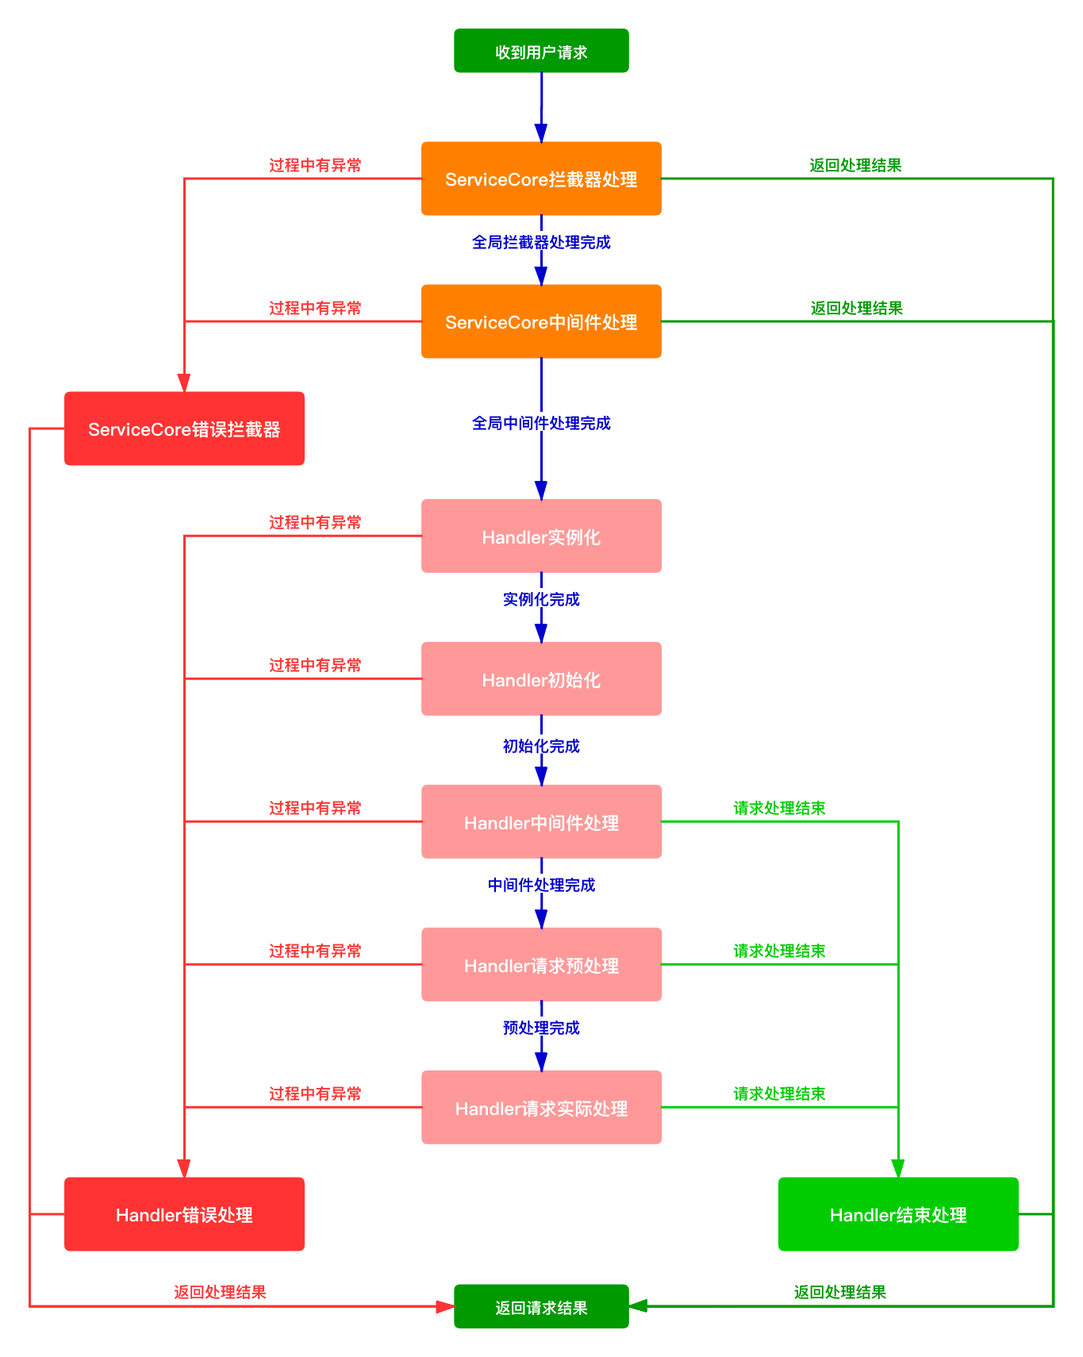
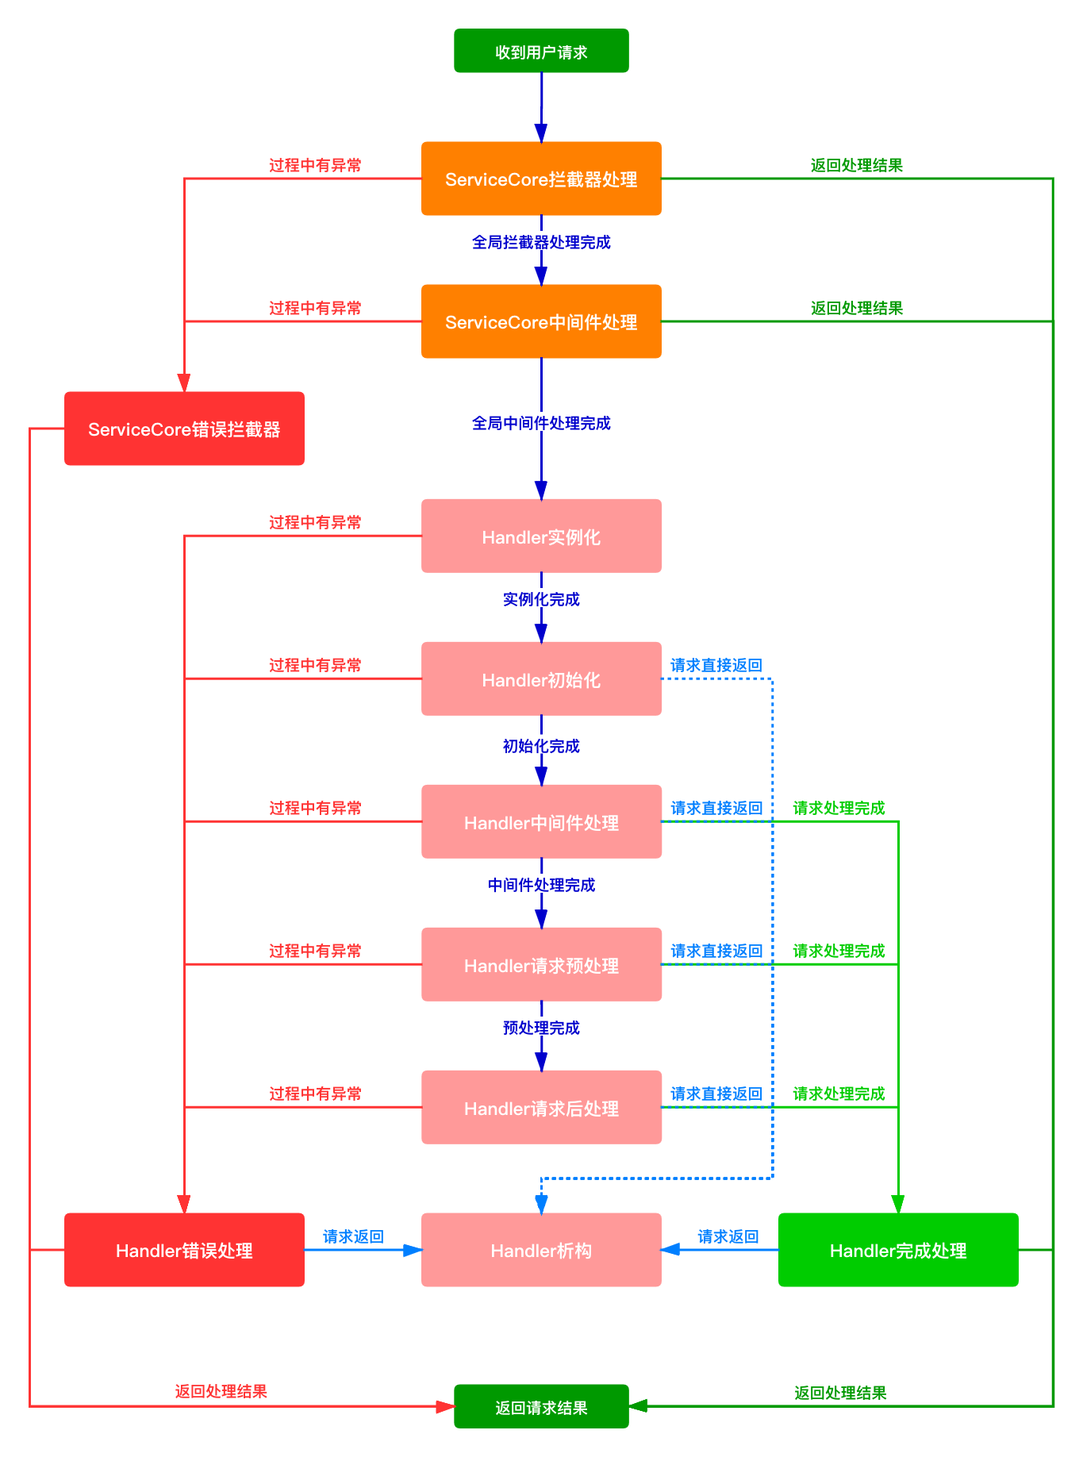
Handler析构相关文档

diff --git a/docs/guide/request-handler.md b/docs/guide/request-handler.md
@@ -2,25 +2,25 @@
 
 ## 介绍
 
-**Handler必须绑定至ServiceCore使用。在ServiceCore拦截器、中间件阶段完成后进入Handler处理**。ServiceCore每次接收到有效的用户请求时，将会使用与请求匹配的Handler创建Handler实例，并将用户请求导入Handler实例处理。即：ServiceCore是Handler执行的容器，负责全局级别处理；Handler根据用户请求路径执行个性化处理。
+**Handler必须绑定至ServiceCore使用**。在全局拦截器、全局中间件阶段处理结束后，ServiceCore将使用与请求匹配的Handler创建Handler实例，并将用户请求导入Handler实例继续处理。即：ServiceCore是Handler执行的容器，负责全局逻辑控制和请求前置处理；在Handler根据实际请求情况针对性处理。
 
-实现自定义Handler时需要继承```Core.Handler```并重写相关方法，在本章中将介绍常用场景下如何自定义Handler。
+自定义Handler通过继承```Core.Handler```并重写相关方法方式进行，在本章中将介绍常用场景下如何自定义Handler。
 
 ## 设置请求路径
 
-ServiceCore绑定Handler时，将获取待绑定列表中每个Handler设置的请求路径，对请求路径做出校正并缓存在ServiceCore。
+ServiceCore绑定Handler时，将获取待绑定列表中每个Handler设置的请求路径，对请求路径做出校正并缓存请求路径规则与Handler的映射关系。
 
-::: tip 请求路径校正规则
-若Handler设置的请求路径不以```'/'```开头，将自动附加```'/'```作为请求路径前缀。
+::: tip 路径校正规则
+Handler中设置的请求路径不以```'/'```开头时，ServiceCore将自动为请求路径附加```'/'```前缀。
 :::
 
 ::: warning 注意
-在ServiceCore全局拦截器默认行为下，收到用户请求时会**检查用户请求路径是否命中缓存中的某个Handler设置的请求路径**，若未命中直接返回404状态码，不再进入中间件阶段和Handler处理阶段。
+在全局拦截器默认行为下，收到用户请求时会**检查用户请求路径是否命中某个Handler的请求路径规则**，若未命中直接返回404状态码，不再进入全局中间件阶段和Handler处理阶段。
 :::
 
-通过重写Handler的```static getRoutePath()```方法设置请求路径，**实现Handler时必须设置请求路径。**
+通过重写Handler的```static getRoutePath()```设置请求路径，**实现Handler时必须设置请求路径。**
 
-样例中实现了一个请求路径为```'/Test.do'```的Handler：
+样例代码中实现了一个请求路径为```'/Test.do'```的Handler：
 
 ```javascript
 const Core = require('node-corejs');
@@ -44,17 +44,26 @@ serviceCore.start();
 
 ## Handler初始化
 
-**每次ServiceCore接收到有效请求时，将创建请求路径对应Handler的实例，此时将执行实例的```initHandler()```发起初始化指令。初始化过程中产生了未捕获的异常将被[统一错误处理](#统一错误处理)捕获。**
+**每次ServiceCore接收到有效请求时，将创建与请求路径对应Handler的实例，实例化后执行实例的```initHandler()```发起Handler初始化指令。初始化过程中产生了未捕获的异常将进入[统一错误处理](#统一错误处理)。**
 
 ::: tip 提示
-Handler初始化操作中一般进行创建请求所需的静态资源和动态资源，这些资源可以挂载至```this```中在整个Handler中共享。
+Handler初始化阶段通常会创建请求处理过程中需要的**静态资源**和**动态资源**，这些资源可以通过挂载至```this```的方式在整个Handler生命周期中共享。初始化阶段中创建的资源需要在[Handler析构](#handler析构)阶段释放，否则可能导致内存泄露。
+
 - 动态资源：与用户请求相关的资源，比如：链路追踪器、日志输出器等。
 - 静态资源：与用户请求无关的资源，比如：数据库操作实例、RPC通信实例等。
 :::
 
-ServiceCore执行Handler初始化通过```await initHandler()```方式，因此，进行异步操作时可以使用```Promise```。
+ServiceCore发起Handler初始化指令通过执行```await initHandler()```。因此，如果需要异步操作时阻塞流程可以使用```Promise```实现。
 
-样例中实现了同步/异步初始化操作：
+::: danger 注意
+初始化阶段通常不执行向用户返回处理结果的动作。若在此阶段需要向用户返回，通过操作用户返回实例```res```即可，向用户返回后将直接进入[Handler析构](#handler析构)阶段。
+:::
+
+样例代码中展示了同步/异步初始化操作：
+
+::: danger 注意
+重写```initHandler```时必须执行```super.initHandler()```，否则Handler将无法正常进入[Handler析构](#handler析构)阶段。
+:::
 
 ```javascript
 const Core = require('node-corejs');
@@ -87,10 +96,10 @@ class Handler extends Core.Handler {
     next('done');
   }
 
-  // 处理结束
-  onFinished(data, req, res) {
-    super.onFinished(data, req, res);
-    this.logger.log('处理结束');
+  // 处理完成
+  onFinish(data, req, res) {
+    super.onFinish(data, req, res);
+    this.logger.log('处理完成');
   }
 }
 
@@ -102,17 +111,27 @@ serviceCore.start();
 
 ## Handler中间件
 
-**Handler中间件支持所有Express生态中间件，支持[动态中间件](/guide/dynamic-middleware)**。本节仅描述设置Handler级别中间件的基础用法，[动态中间件](/guide/dynamic-middleware)将于高阶功能中描述。**中间件执行过程中产生了未捕获的异常将被[统一错误处理](#统一错误处理)捕获。**
+**Handler中间件支持所有Express生态中间件，支持[动态中间件](/guide/dynamic-middleware)**。本节仅描述Handler级别中间件的基础用法，[动态中间件](/guide/dynamic-middleware)将于高阶功能中描述。**中间件执行过程中产生了未捕获的异常将进入[统一错误处理](#统一错误处理)。**
 
 ::: tip 提示
 动态中间件包括：
+
 - 处理每个用户请求时，根据实际请求情况动态生成中间件列表。
-- 执行每个中间件时，根据上一个中间件结果或实际请求情况控制中间件执行行为，比如丢弃执行结果、跳过执行等。
+- 执行每个中间件时，根据实际请求情况或上一个中间件结果控制中间件执行行为，比如丢弃执行结果、跳过执行等。
 :::
 
-自定义Handler时，需要重写```getMiddlewares()```配置Handler中间件，支持同步/异步设置中间件。当Handler初始化完成后将调用```await getMiddlewares()```获取待执行的中间件列表进入Handler中间件阶段。
+::: danger 注意
+在Handler中间件阶段应尽量使用流程控制方法```next()```控制处理流程，而不是直接操作用户返回实例```res```。
 
-样例中实现了同步/异步构建中间件列表：
+- 执行```next(err)```：Handler流程控制将分发请求至[统一错误处理](#统一错误处理)。
+- 执行```next(data)```：Handler流程控制将分发请求至[统一完成处理](#统一完成处理)。
+- 执行```next('commit')```：**仅在中间件调用确认时支持使用**，Handler流程控制将执行当前中间件。
+- 执行```next()```、```next(null)```或```next(undefined)```：Handler流程控制将发起下一个位置中间件的调用确认。在调用确认阶段进行此操作表示跳过当前中间件执行，直接发起下一个中间件的调用确认；在完成确认阶段进行此操作则认为确认完成，发起下一个中间件的调用确认。
+:::
+
+自定义Handler时，通过重写```getMiddlewares()```配置待执行的Handler中间件列表。Handler流程控制通过执行```await getMiddlewares()```获取待执行的中间件列表，因此可以通过```Promise```异步设置中间件列表。
+
+样例代码中展示了同步/异步设置中间件列表：
 
 ```javascript
 const express = require('express');
@@ -145,20 +164,23 @@ serviceCore.start();
 
 ## 请求预处理
 
-在Handler中间件阶段结束后（即：中间件列表最后一个中间件执行完成且被完成确认后），核心处理流程将分发用户请求进入预处理阶段继续处理。一些通用业务层逻辑（比如：请求参数解析与校验）可以在此阶段进行，通过重写```preHandler()```自定义请求预处理逻辑。
+Handler中间件阶段结束后（即：中间件列表最后一个中间件执行完成且被确认后），流程控制将分发用户请求进入预处理阶段继续处理。一些通用业务层逻辑（比如：请求参数解析与校验）可以在此阶段进行，通过重写```preHandler()```自定义请求预处理行为。
 
-在预处理阶段即将结束时，使用流程控制方法```next()```指定后续处理流程：
+::: danger 注意
+在预处理阶段即将结束时，应使用流程控制方法```next()```控制处理流程，而不是直接操作用户返回实例```res```。
 
-- 执行```next()```：核心处理流程将会根据用户请求方式，分发至对应的请求方式处理器执行[请求后处理](#请求后处理)。比如：用户请求方式为POST，核心流程将调用```postHandler()```进行后处理。
-- 执行```next(err)```：核心流程将分发请求至[统一错误处理](#统一错误处理)。
-- 执行```next(data)```：核心流程将分发请求至[统一结束处理](#统一结束处理)。
-
-::: warning 注意
-- 请求预处理默认直接执行```next()```进入后处理阶段。
-- 执行```next(data)```时，data可能为```null```或```undefined```，而中间件阶段的流程控制方法入参为```null```或```undefined```表示执行下一个中间件。
+- 执行```next()```：Handler流程控制将会根据用户请求方式，分发用户请求至对应的```Method Handler```执行[请求后处理](#请求后处理)。比如：用户请求方式为POST，Handler将调用```postHandler()```进行后处理。
+- 执行```next(err)```：Handler流程控制将分发请求至[统一错误处理](#统一错误处理)。
+- 执行```next(data)```：Handler流程控制将分发请求至[统一完成处理](#统一完成处理)。
 :::
 
-样例实现了在Handler预处理阶段处理基础入参：
+::: warning 注意
+
+- 请求预处理默认行为：直接执行```next()```进入后处理阶段，即：在不重写```preHandler()```时，Handler中间件阶段结束后直接进入[请求后处理](#请求后处理)。
+- 预处理阶段与中间件阶段的流程控制方法```next()```行为不同：执行```next(data)```时，后处理阶段中```data```可能为```null```或```undefined```，此时直接进入[统一完成处理](#统一完成处理)；而中间件阶段的流程控制方法入参为```null```或```undefined```表示执行下一个中间件。
+:::
+
+样例代码展示了在预处理阶段处理基础入参：
 
 ```javascript
 const Core = require('node-codejs');
@@ -202,31 +224,62 @@ serviceCore.start();
 
 ## 请求后处理
 
-在Handler请求预处理阶段即将结束时，若通过流程控制方法```next()```决定进入后处理阶段，核心处理流程将根据用户请求方式执行对应的请求处理器。比如：用户请求方式为POST，核心流程将调用```postHandler()```执行后续请求处理。用户请求对应的实际业务处理一般发生在此阶段，通过重写对应的Method Handler自定义请求后处理逻辑。
+在Handler请求预处理阶段即将结束时，若通过流程控制方法```next()```决定进入后处理阶段，Handler流程控制将根据用户请求方式执行对应的```Method Handler```。比如：用户请求方式为POST，核心流程将调用```postHandler()```执行后续请求处理。用户请求对应的实际业务处理通常发生在此阶段，通过重写对应的```Method Handler```自定义请求后处理行为。
 
-在后处理阶段即将结束时，使用流程控制方法```next()```指定后续处理流程：
+::: danger 注意
+在后处理阶段即将结束时，应使用流程控制方法```next()```控制处理流程，而不是直接操作用户返回实例```res```。
 
 - 执行```next(err)```：核心流程将分发请求至[统一错误处理](#统一错误处理)。
-- 执行```next(data)```：核心流程将分发请求至[统一结束处理](#统一结束处理)。
-
-::: warning 注意
-- 请求后处理的默认行为是：尝试根据请求方式构建Method Handler的方法名，若Method Handler方法在Handler有定义则直接调用；否则调用```_defaultHandler()```，此方法默认直接向客户端返回404状态码。
-- 若后处理阶段即将结束时执行了```next()```，Handler将认为调用```next(undefined)```，将分发请求至[统一结束处理](#统一结束处理)。
+- 执行```next(data)```：核心流程将分发请求至[统一完成处理](#统一完成处理)。
 :::
 
-## 统一结束处理
-
-在Handler处理任意阶段调用了```next(data)```将进入统一结束处理。此阶段为请求处理的末端，用于统一向客户端返回业务请求处理结果。通过重写```onFinished()```自定义统一结束处理逻辑。
-
 ::: warning 注意
-- 在中间件阶段中，执行```next()```、```next(null)```或```next(undefined)```时，Handler将分发下一个中间件而不是进入统一结束处理。
-- 在预处理阶段中，执行```next()```时与中间件阶段表现相同，而执行```next(null)```或```next(undefied)```时表现与中间件阶段不同，此时Handler核心流程将进入统一结束处理。
-- 在后处理阶段中，执行```next()```、```next(null)```或```next(undefined)```时，Handler将进入统一结束处理。
+
+- 请求后处理默认行为：根据请求方式构造对应的```Method Handler```方法名，若```Method Handler```在Handler中被重写则发起调用；否则调用默认后处理方法```_defaultHandler()```。默认后处理方法将直接向用户返回404状态码。
+- 后处理阶段、预处理阶段和中间件阶段的流程控制方法```next()```行为不同：在后处理阶段执行```next()```时，Handler将自动转换为```next(undefined)```，将分发请求至[统一完成处理](#统一完成处理)。
 :::
 
-默认行为下，统一结束处理使用```res.status(200).send()```向用户返回流程控制方法```next(data)```带入的```data```。
+样例代码中实现了使用GET方式请求```/Test.do```时返回query参数的业务：
 
-样例将以默认统一结束处理演示使用方式：
+```javascript
+const Core = require('node-corejs');
+
+class Handler extends Core.Handler {
+  // 设置请求路径
+  static getRoutePath() {
+    return '/Test.do';
+  }
+
+  // 实现GET请求处理逻辑
+  getHandler(req, res, next) {
+    next(req.query);
+  }
+}
+
+// 构建并启动ServiceCore
+const serviceCore = new Core.ServiceCore();
+serviceCore.bind([Handler]);
+serviceCore.start();
+```
+
+## 统一完成处理
+
+在Handler处理过程的任意阶段调用```next(data)```将进入统一完成处理。此阶段为请求处理的末端，通常需要操作用户返回实例```res```返回请求处理结果。通过重写```onFinish()```自定义统一完成处理行为。
+
+::: danger 注意
+仅使用流程控制方法```next(data)```才能进入统一完成处理。通过操作用户返回实例```res```导致处理结束将直接进入[Handler析构](#handler析构)，不会进入此阶段。
+:::
+
+::: warning 注意
+
+- 在中间件阶段中，执行```next()```、```next(null)```或```next(undefined)```时，Handler流程控制将尝试发起中间件列表中的下一个中间件的调用确认而不是进入统一完成处理。
+- 在预处理阶段中，执行```next()```时与中间件阶段表现相同；而执行```next(null)```或```next(undefied)```时与中间件阶段不同，此时Handler流程控制将进入统一完成处理。
+- 在后处理阶段中，执行```next()```、```next(null)```或```next(undefined)```时，Handler流程控制将进入统一完成处理。
+:::
+
+默认行为下，统一完成处理使用```res.status(200).send()```向用户返回流程控制方法```next(data)```带入的```data```。
+
+样例代码将以默认统一完成处理演示如何自定义统一完成处理行为：
 
 ```javascript
 const Core = require('node-codejs');
@@ -237,8 +290,8 @@ class Handler extends Core.Handler {
     return '/Test.do';
   }
 
-  // 统一结束处理
-  onFinished(data, req, res) {
+  // 统一完成处理
+  onFinish(data, req, res) {
     res.status(200).send(data);
   }
 }
@@ -251,7 +304,7 @@ serviceCore.start();
 
 ## 统一错误处理
 
-在Handler处理过程中出现了未被捕获的异常或任意阶段调用了```next(err)```将进入统一错误处理，此阶段为请求处理的末端，用于统一收口请求处理过程中的错误处理，一般情况下需要向客户端返回数据。通过重写```onError()```自定义统一错误处理逻辑。
+在Handler处理过程中出现了未被捕获的异常或任意阶段调用了```next(err)```时将进入统一错误处理。此阶段为请求处理的末端，用于统一收口请求处理过程中产生的异常，通常需要直接操作用户返回实例```res```返回请求处理结果。通过重写```onError()```自定义异常处理行为。
 
 样例将以默认统一错误处理演示使用方式：
 
@@ -267,6 +320,55 @@ class Handler extends Core.Handler {
   // 统一错误处理
   onError(err, req, res) {
     res.status(500).end();
+  }
+}
+
+// 构建并启动ServiceCore
+const serviceCore = new Core.ServiceCore();
+serviceCore.bind([Handler]);
+serviceCore.start();
+```
+
+## Handler析构
+
+在Handler处理过程的任意阶段，用户返回实例```res```执行了返回行为时，则Handler处理结束，进入析构阶段。
+
+::: danger 警告
+Handler析构阶段执行时，用户返回实例```res```已向用户返回。因此，在此阶段中仅允许对用户请求实例```req```和用户返回实例```res```执行读操作；对```req```和```res```执行写操作或业务操作无实际意义。
+:::
+
+::: tip 提示
+通常Handler析构阶段与[Handler初始化](#handler初始化)阶段的行为相互对应，在析构阶段中释放初始化阶段创建的资源。
+:::
+
+样例代码中实现了记录用户请求```/Test.do```的处理时间：
+
+```javascript
+const Core = require('node-corejs');
+
+class Handler extends Core.Handler {
+  // 设置请求路径
+  static getRoutePath() {
+    return '/Test.do';
+  }
+
+  // Handler初始化
+  initHandler(serviceCore, req, res) {
+    super.initHandler(serviceCore, req, res);
+    this.logger = new Core.BaseLogger();
+    this.startTime = new Date();
+    this.logger.log('开始处理用户请求...');
+  }
+
+  // GET请求处理
+  getHandler(req, res, next) {
+    setTimeout(() => { next() }, 1000);
+  }
+
+  // Handler析构
+  destroyHandler(req, res) {
+    const duration = (new Date()) - this.startTime;
+    this.logger.log(`用户[${req.method.toUpperCase()}]请求处理结束,用时:[${duration}]毫秒`);
   }
 }
 

diff --git a/docs/guide/web-service.md b/docs/guide/web-service.md
@@ -227,29 +227,33 @@ ServiceCore支持通过外部注入日志输出器的方式进行日志收集，
 - ```level```：日志等级
   > 通过在实例化ServiceCore前修改宏的方式实现对日志输出等级的变更：
   > | 宏名称                                         | 描述        | 默认值         |
-  > | :-------------------------------------------: |:----------:| :------------:|
+  > | :-------------------------------------------- |:----------:| :------------:|
   > | ```Core.Macro.SERVICE_CORE_INFOS_LOG_LEVEL``` | 信息日志等级 | ```'infos'``` |
   > | ```Core.Macro.SERVICE_CORE_WARNS_LOG_LEVEL``` | 警告日志等级 | ```'warns'``` |
   > | ```Core.Macro.SERVICE_CORE_ERROR_LOG_LEVEL``` | 错误日志等级 | ```'error'``` |
 - ```message```：文案内容
   > 通过在实例化ServiceCore前修改宏的方式实现对日志输出文案的变更：
-  > | 宏名称                                                        | 描述                                   | 输出等级 |
-  > | :----------------------------------------------------------  | :-----------------------------------: | :----: |
+  > | 宏名称                                                        | 描述                                   | 输出等级                                       |
+  > | :----------------------------------------------------------- | :-----------------------------------: | :-------------------------------------------: |
   > | ```Core.Message.SERVICE_CORE_MESSAGE_INVALID_STATE```        | 当前状态下不允许执行操作                  | ```Core.Macro.SERVICE_CORE_WARNS_LOG_LEVEL``` |
   > | ```Core.Message.SERVICE_CORE_MESSAGE_INVALID_HANDLER```      | 待绑定的Handler类型无效                  | ```Core.Macro.SERVICE_CORE_WARNS_LOG_LEVEL``` |
   > | ```Core.Message.SERVICE_CORE_MESSAGE_INVALID_ROUTE_PATH```   | 待绑定的Handler请求路径无效              | ```Core.Macro.SERVICE_CORE_WARNS_LOG_LEVEL``` |
-  > | ```Core.Message.SERVICE_CORE_MESSAGE_INVALID_SSL_OPTIONS```  | SSL配置无效                            | 抛出异常 |
-  > | ```Core.Message.SERVICE_CORE_MESSAGE_INVALID_PARAM_TYPE```   | 设置全局拦截器/错误拦截器/构建过程时参数无效 | 抛出异常 |
+  > | ```Core.Message.SERVICE_CORE_MESSAGE_INVALID_SSL_OPTIONS```  | SSL配置无效                            | 抛出异常                                       |
+  > | ```Core.Message.SERVICE_CORE_MESSAGE_INVALID_PARAM_TYPE```   | 设置全局拦截器/错误拦截器/构建过程时参数无效 | 抛出异常                                       |
   > | ```Core.Message.SERVICE_CORE_MESSAGE_SUCCESS_BIND_HANDLER``` | 成功绑定Handler                        | ```Core.Macro.SERVICE_CORE_INFOS_LOG_LEVEL``` |
   > | ```Core.Message.SERVICE_CORE_MESSAGE_SUCCESS_START_SERVER``` | ServiceCore启动成功                    | ```Core.Macro.SERVICE_CORE_INFOS_LOG_LEVEL``` |
   > | ```Core.Message.SERVICE_CORE_MESSAGE_FAILURE_START_SERVER``` | ServiceCore启动失败                    | ```Core.Macro.SERVICE_CORE_ERROR_LOG_LEVEL``` |
 - ```funcName```：调用方法名
   > 通过在实例化ServiceCore前修改宏的方式实现对调用方法名的变更：
-  >   - ```Core.Message.SERVICE_CORE_FUNCNAME_LOG```：默认值：```'服务核心'```
+  > | 宏名称                                        | 默认值           |
+  > | :------------------------------------------- | :-------------: |
+  > | ```Core.Message.SERVICE_CORE_FUNCNAME_LOG``` | ```'服务核心'``` |
+
+可以使用Corejs内置输出器进行日志收集：
 
 ```javascript
 const Core = require('node-corejs');
-// BaseLogger中包含符合条件的log()方法
+// 指定ServiceCore使用基础输出器收集日志
 const serviceCore = new Core.ServiceCore({ logger: new Core.BaseLogger() });
 serviceCore.start();
 ```
